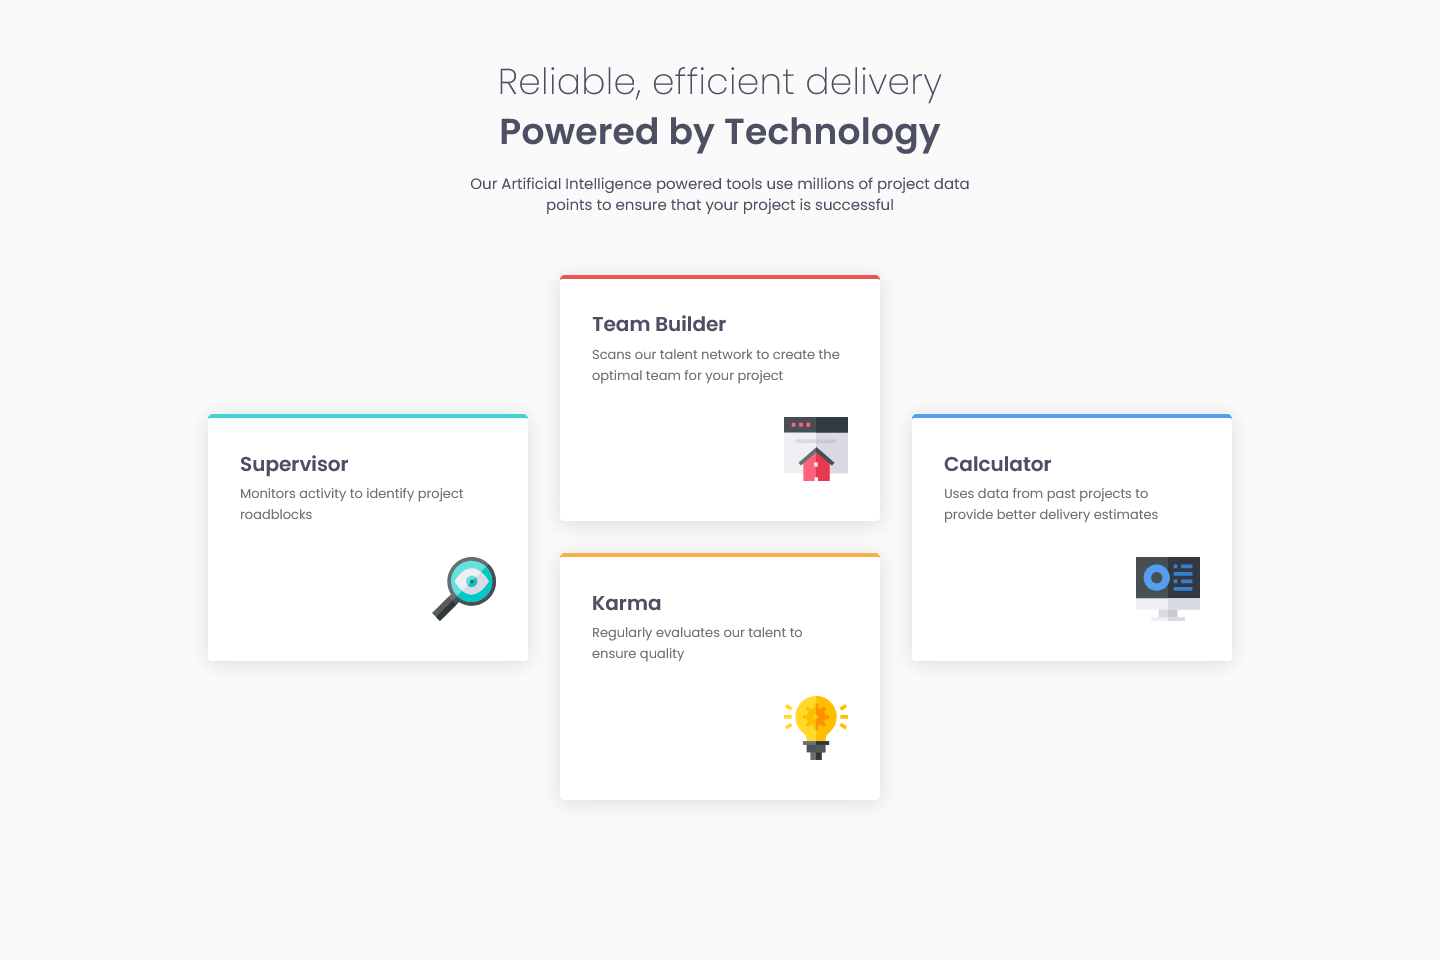
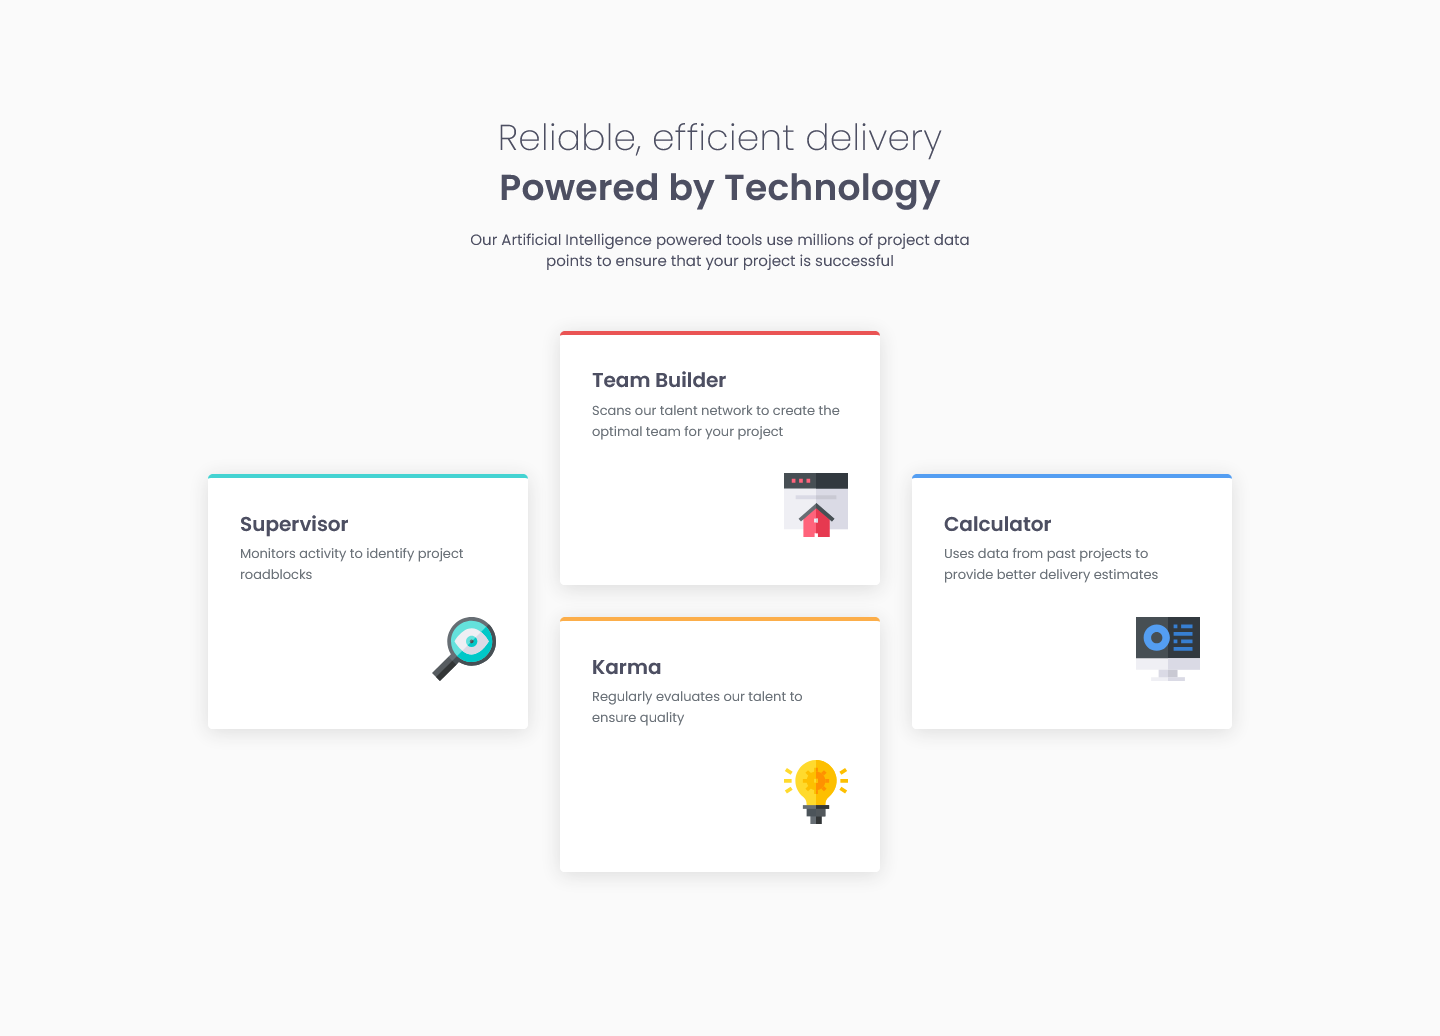
done with solution

diff --git a/style.css b/style.css
@@ -8,8 +8,10 @@
 }
 
 html, body {
-    width: 100vw;
+    margin: 0;
+    padding: 0;
 }
+
 
 /* CSS Variables */
 :root {
@@ -31,6 +33,7 @@ html, body {
     --space-lg: calc(32 / 16 * 1rem);
     --space-xl: calc(40 / 16 * 1rem);
     --space-xxl: calc(60 / 16 * 1rem);
+    --space-xxxl: calc(74 / 16 * 1rem);
 
     /* Typography */
     --font-family: 'Poppins', sans-serif;
@@ -109,12 +112,12 @@ body {
     flex-direction: column;
     align-items: center;
     gap: var(--space-xxl);
-    margin: 3.5rem 0;
 }
 
 header {
     max-width: 19.75rem;
     text-align: center;
+    margin-block-start: 3.5rem;
 }
 
 main {
@@ -122,6 +125,7 @@ main {
     display: flex;
     flex-direction: column;
     gap: var(--space-lg);
+    margin-block-end: 3rem;
 }
 
 /* Card */
@@ -141,7 +145,7 @@ main {
     max-height: 4rem;
     align-self: flex-end;
     box-sizing: border-box;
-    margin-block-end: .5rem;
+    margin-block-end: 1rem;
 }
 
 .card .card-body {
@@ -168,12 +172,18 @@ main {
 
 /* Media Queries */
 @media (min-width: 48rem) { /* Tablet */
+
+    body {
+        gap: var(--space-xxl);
+    }
+
     main {
         min-width: 40rem;
         display: grid;
         grid-template-columns: 1fr 1fr;
         grid-template-rows: 1fr 1fr 1fr;
         justify-content: center;
+        margin-block-end: 3.25rem;
     }
 
     .card {
@@ -220,6 +230,15 @@ main {
 }
 
 @media (min-width: 80rem) { /* Desktop */
+
+    body {
+        margin: 7rem 0;
+    }
+
+    header {
+        margin-block-start: 0rem;
+    }
+
     main {
         min-width: 64rem;
         display: grid;
@@ -229,7 +248,7 @@ main {
     }
 
     .card {
-        max-width: 32rem;
+        max-width: 34rem;
     }
 
     .supervisor {
